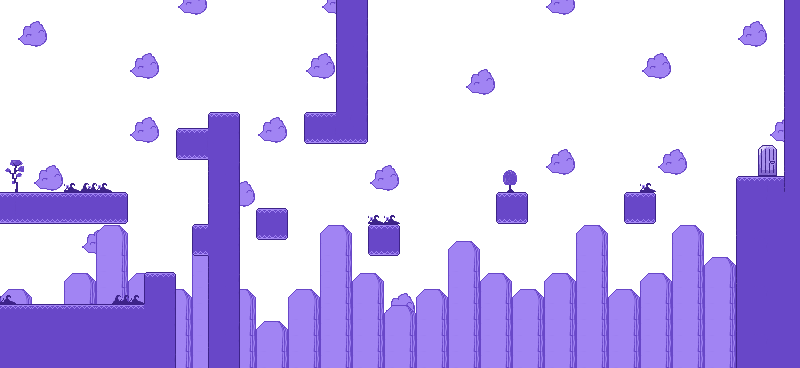
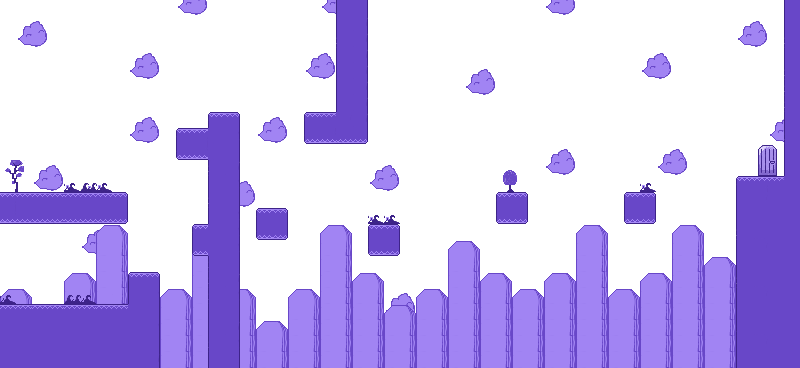
fixed spawn points for level 2

Changed region(s): [[0.0625, 0.7174, 0.2188, 1.0]]

diff --git a/src/main.ts b/src/main.ts
@@ -73,7 +73,7 @@ async function gameSetup() {
             levelSpawnPoints.player[0].x,
             levelSpawnPoints.player[0].y,
             levelLocations[0],
-            levelLocations[1]
+            levelLocations[1],
         );
 
         // Adding player
@@ -150,8 +150,8 @@ async function gameSetup() {
         // Find the platform layer
         const platformLayer = mapData.layers.find((layer: any) => layer.name === "platform");
 
-        // Access the data array
-        const platform2D = to2DArray(platformLayer.data, 27);
+        // Access the data array and convert to a 2D array with the width of the map
+        const platform2D = to2DArray(platformLayer.data, numbersForCam[6]);
 
         // Adding guyEnemy to the game
         for (const guy of levelSpawnPoints.Guy) {
@@ -161,12 +161,12 @@ async function gameSetup() {
 
     // loading scene 1
     k.scene("level-1", async () => {
-        await createlevel(level1Layout, level1SpawnPoints, "level - 1", "./level-1.tmj", 0.7, [432, 230, 672, 420, 730, 700], ["level-2", "level-1"]);
+        await createlevel(level1Layout, level1SpawnPoints, "level - 1", "./level-1.tmj", 0.7, [432, 230, 672, 420, 730, 700, 27], ["level-2", "level-1"]);
     });
 
     // loading scene 2
     k.scene("level-2", async () => {
-        await createlevel(level2Layout, level2SpawnPoints, "level - 2", "./level-2.tmj", 0.7, [1960, 230, 900, 420, 730, 900], ["level-3", "level-2"]);
+        await createlevel(level2Layout, level2SpawnPoints, "level - 2", "./level-2.tmj", 0.7, [1960, 230, 900, 420, 730, 900, 50], ["level-3", "level-2"]);
     });
 
 

diff --git a/src/entities.ts b/src/entities.ts
@@ -136,7 +136,7 @@ export function makePlayer(k : KaboomCtx, posx : number, posy : number, exit: st
     // If player falls then respon (AKA death)
     player.onUpdate(() =>{
         if (player.pos.y > 2000) {
-            k.go("level-1");
+            k.go(death);
         }
     });
 
